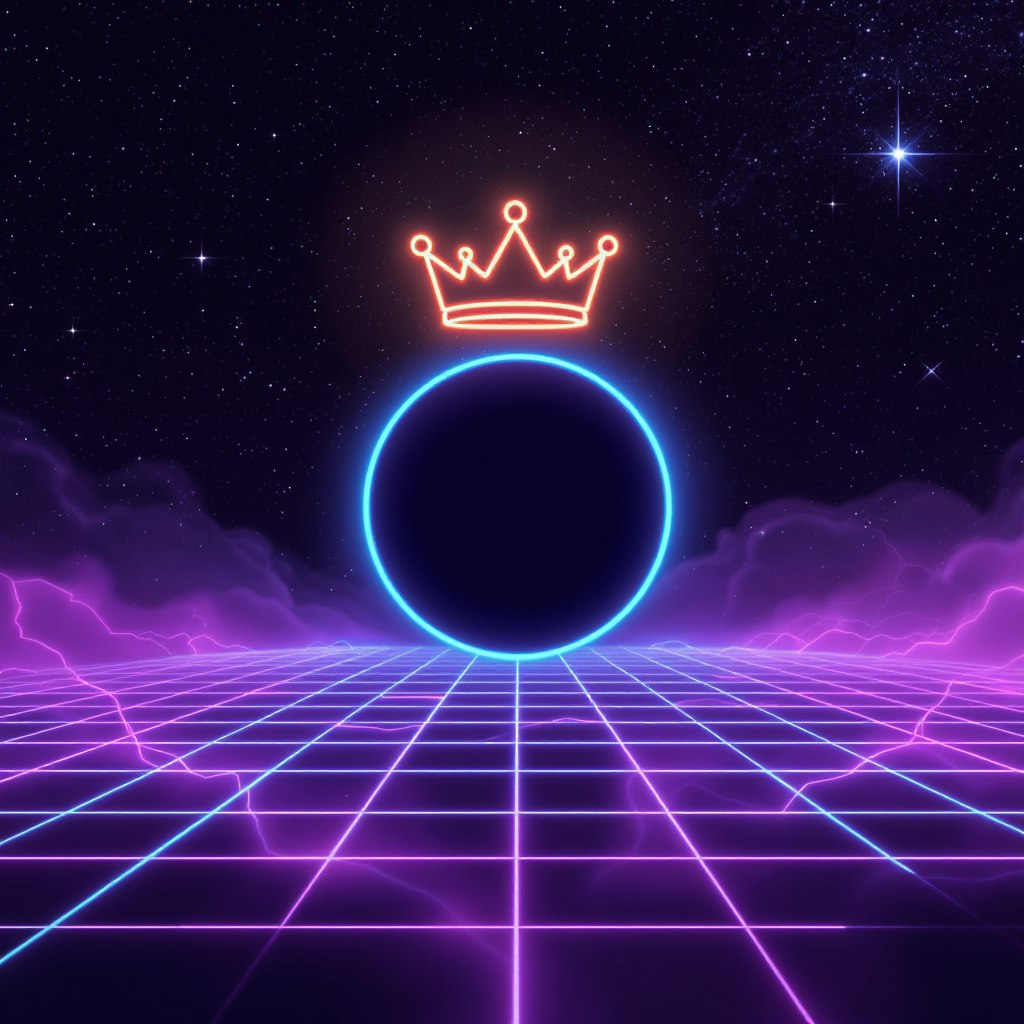
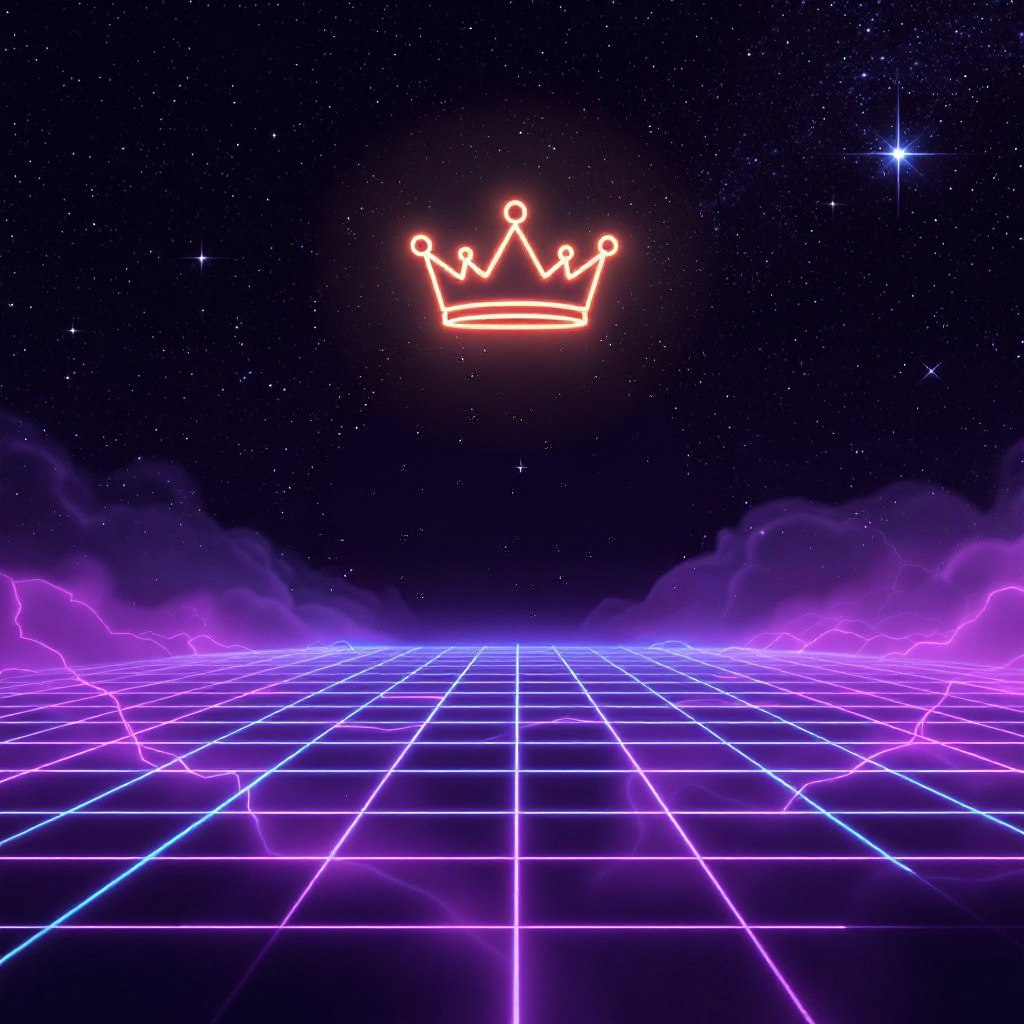
feat: Упрощение управления фоном профиля, удаление ненужных CSS-переменных и классов

Changed region(s): [[0.3125, 0.3125, 0.7188, 0.6875]]

diff --git a/static/css/style.css b/static/css/style.css
@@ -472,10 +472,8 @@ body.allow-landscape #md-pane-stream.fs-mode * {
     position: absolute;
     inset: 0; /* fill entire profile-top-area */
     z-index: 0;
-    /* управление через CSS-переменные для точной подгонки */
-    background-size: var(--shade-size, cover);
-    background-position: var(--shade-pos-x, 50%) var(--shade-pos-y, 50%);
-    background-repeat: no-repeat;
+    background-size: cover;
+    background-position: center;
     height: auto;
 }
 .profile-top-area > * { z-index: 1; }
@@ -487,11 +485,6 @@ body.allow-landscape #md-pane-stream.fs-mode * {
     background: linear-gradient(180deg, rgba(0,0,0,0.08) 0%, rgba(0,0,0,0.35) 100%);
     pointer-events: none;
 }
-
-/* Предустановки подгонки для отдельных шейдов (корона строго над аватаром) */
-/* Точки подобраны так, чтобы световое кольцо было центрировано за фото, а "корона" чуть выше головы */
-.shade-bg.shade1 { --shade-pos-y: 38%; }
-.shade-bg.shade3 { --shade-pos-y: 42%; }
 
 .profile-shade-btn { display:inline-block; width: 34px; height: 22px; margin-left:8px; vertical-align: middle; border-radius:6px; background: rgba(255,255,255,0.04); border:1px solid rgba(255,255,255,0.06); cursor:pointer; }
 .profile-shade-btn:focus { outline:none; box-shadow:0 0 0 2px rgba(108,140,255,0.10); }

diff --git a/static/js/profile-user.js b/static/js/profile-user.js
@@ -162,13 +162,6 @@
         if (shadeBg) {
           if (!url) { shadeBg.style.backgroundImage=''; return; }
           shadeBg.style.backgroundImage = `url(${url})`;
-          // Точная подгонка: корона строго над аватаром для некоторых пресетов
-          try {
-            shadeBg.classList.remove('shade1','shade3');
-            const name = (url.split('/').pop()||'').toLowerCase();
-            if (name.includes('shade1')) shadeBg.classList.add('shade1');
-            else if (name.includes('shade3')) shadeBg.classList.add('shade3');
-          } catch(_){ }
         } else if (topArea) {
           if (!url) { topArea.style.backgroundImage=''; return; }
           topArea.style.backgroundImage = `url(${url})`;
